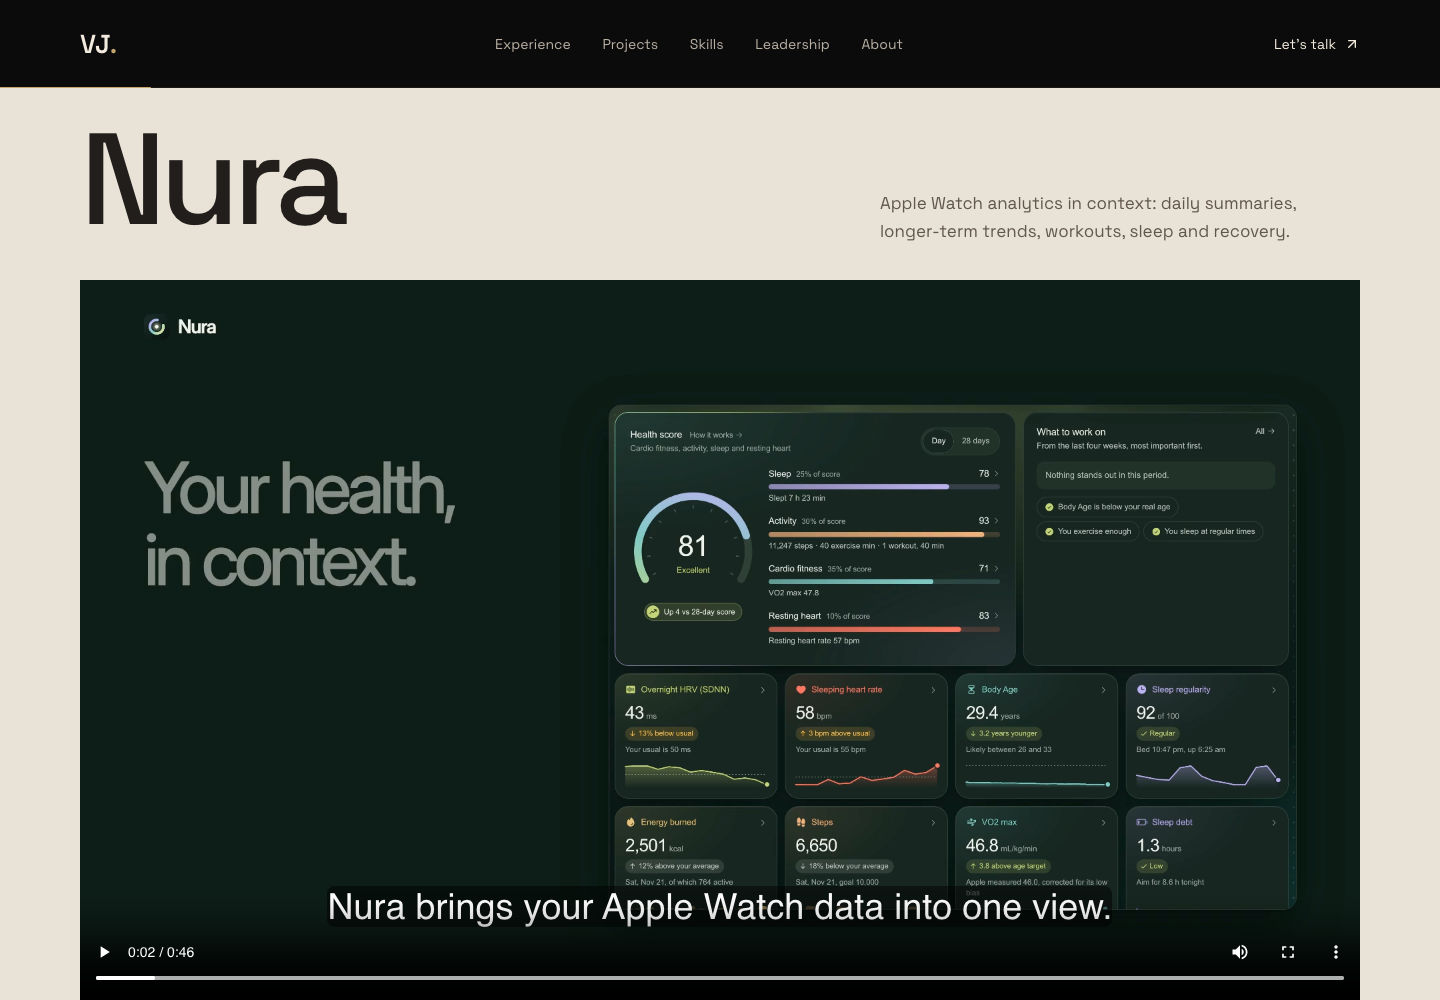
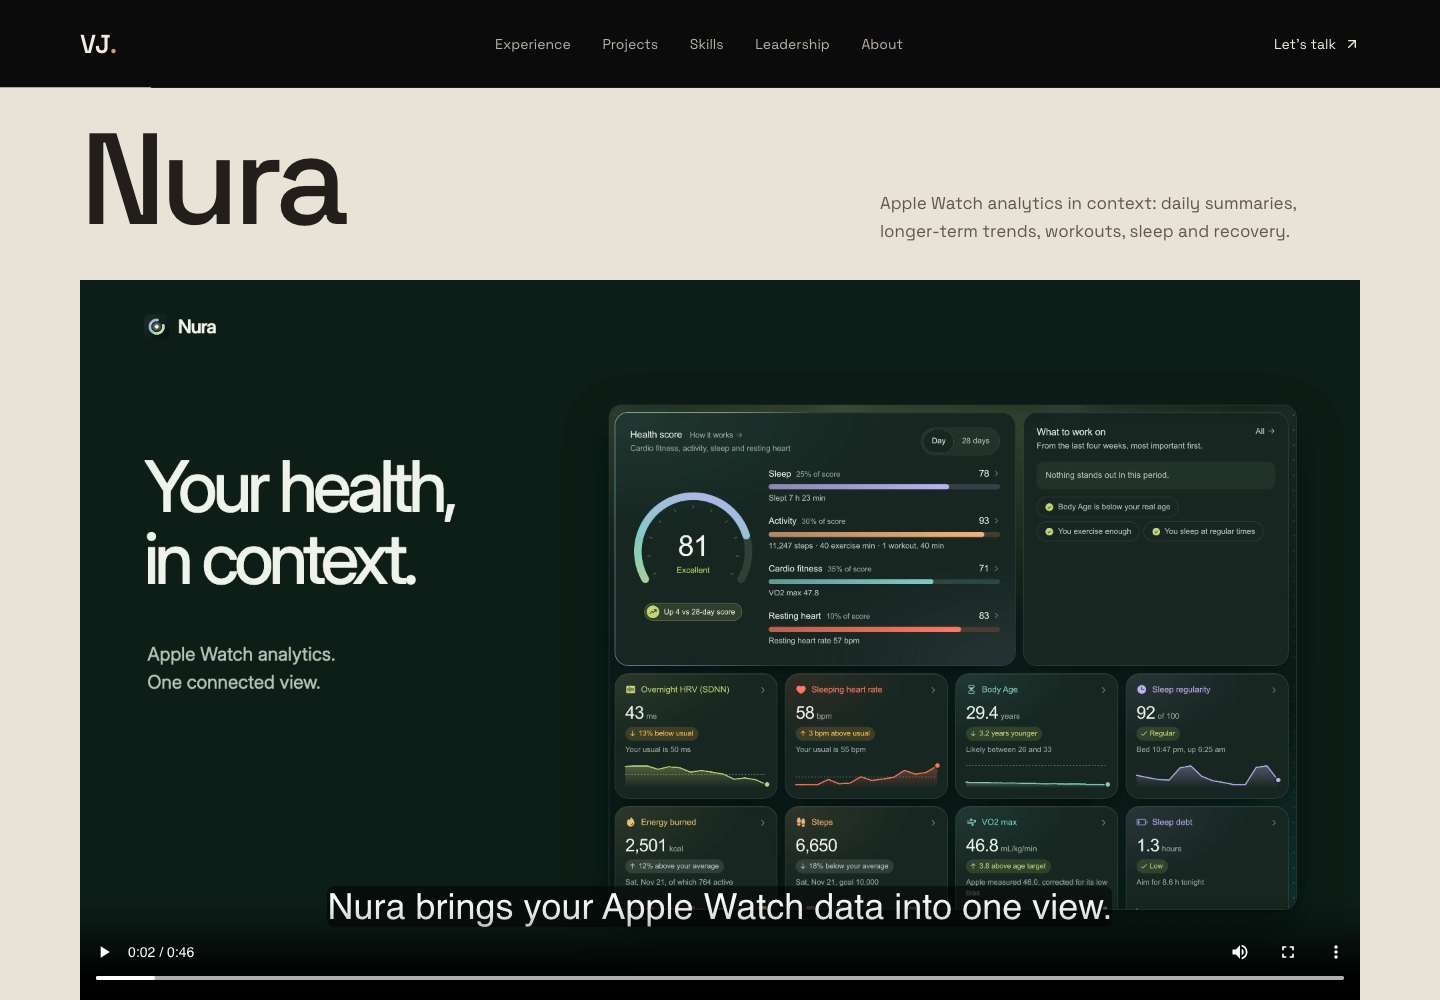
docs: record verified production film delivery and upload masters

Changed region(s): [[0.0938, 0.465, 0.3125, 0.589], [0.0938, 0.651, 0.2188, 0.713]]

diff --git a/docs/product-films/release.md b/docs/product-films/release.md
@@ -1,0 +1,37 @@
+# Final release —22November2026
+
+Live: https://vibhrav.vercel.app/#product-films
+Application code: `8e50ad65330608eacfc2603291341e983558a4f1`.
+Production deployment: `dpl_6Z91ZE5hdGC9yzwFw5GAmgXCYuWB`, READY, targetproduction.
+The public alias was explicitly promoted after the post-fix checks passed.
+
+- Three finished web movies: Nura46s,StudyFlow44s,Vyaya34s.
+- Full portfolio regression:133passed before the close fix.
+- Post-fix focused suite:6passed, including the previously failing stalled-exit
+  regression, rapid Escape, focus return, no-JavaScript controls and mobile modal.
+- Root production build, lint and typecheck passed; separate Remotion checks
+  passed;19contact tests passed. Six unrelated existing image lint warnings remain.
+- Final public-origin browser smoke passed for allthree films: intent loading,
+  actual playback, captions,206byte seeking, mobile bounds, no new accessibility
+  violations, Escape cleanup, restored focus and no retained video.
+- Downloaded production movie hashes exactly match reviewed local web exports:
+  see `production-hashes.json`. Browser results are in
+  `production-playback-results.json`.
+- All original movies remain in the repository for rollback.
+
+High-quality upload masters, captions, scripts and a ZIP were also copied into
+`Portfolio Website/output/product-films/final-2026-11-22/` and the adjacent
+`Product-Films-Final-1080p.zip`. That stable local delivery directory is ignored
+by Git. Master hashes are recorded in `asset-manifest.json`; both web and master
+AACaudio passed loudness/true-peak checks. The website deliberately serves the
+smaller web versions, not the upload masters.
+
+The latest change removes dependence on a CSS animation ending before the film
+player can close. Video/audio now unmount immediately and keyboard focus returns.
+The successful opening entrance remains. This was reproduced failing on the old
+player and passing on the new one; no timing assertion was relaxed.
+
+Inspection remains decoded-frame/contact-sheet/transition review plus automated
+normal and half-speed browser playback. Full human continuous viewing/listening
+is not claimed. Remaining bounds and the pre-existing wordmark accessibility
+issue are explicitly described in `qa.md`; no silent exception is introduced.

diff --git a/docs/product-films/qa.md b/docs/product-films/qa.md
@@ -175,3 +175,9 @@ A local incremental rebuild hit an internal WebpackWasmHashcache exception. A
 clean generated-cache rebuild passed; no source check was skipped or weakened.
 The first failed targeted test and the paused-animation regression are retained
 in local QA logs; final post-fix results are separate.
+
+Final outcome: the post-fix6-test suite passed, including both rapid Escape and
+paused CSS exit regression. The public production smoke also passed allthree
+films and dialog cleanup. Production movie SHA256values match the reviewed local
+exports. See `release.md`, `production-hashes.json` and
+`production-playback-results.json` for the concrete final delivery evidence.
